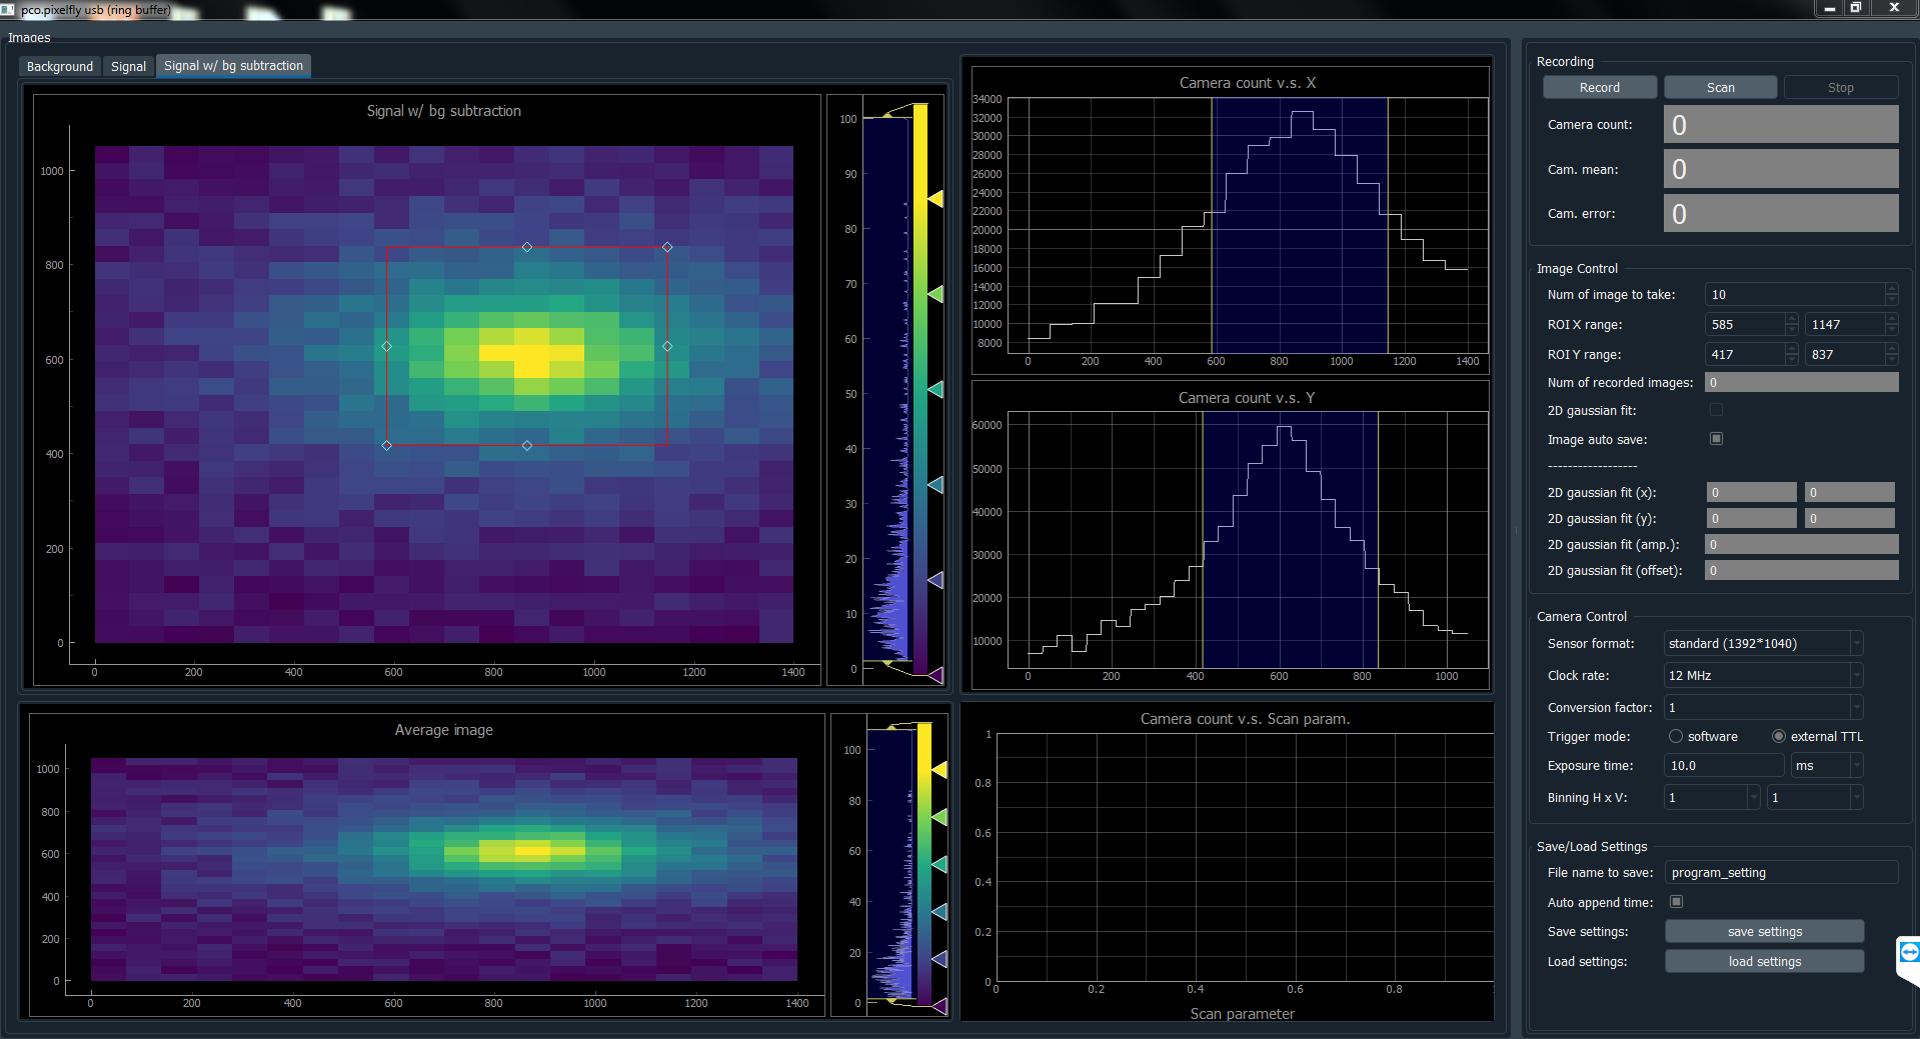
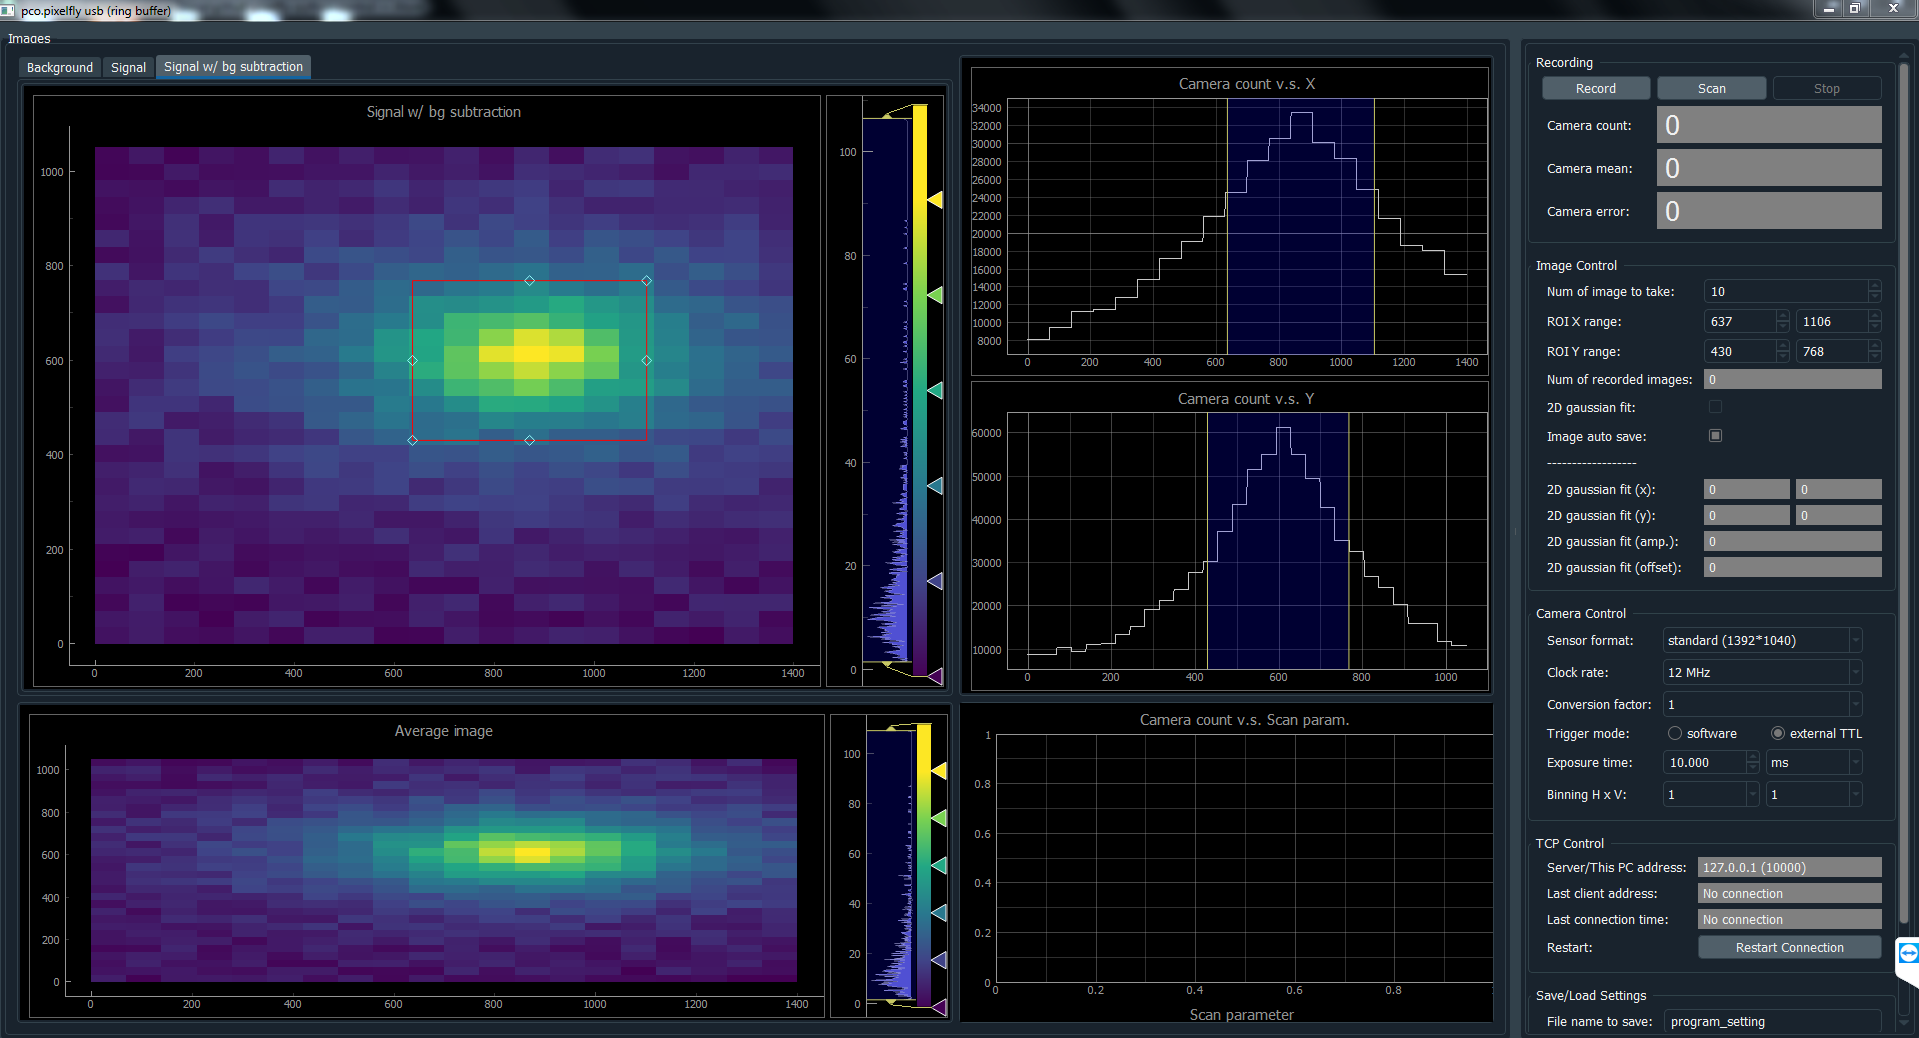
ReadMe includes TCP

diff --git a/README.md b/README.md
@@ -7,7 +7,8 @@ Key features include:
 - real time image display
 - region of interest (ROI) selection
 - real time image statistics (including 2D Gaussian fit)
-- target system parameter scan (in coordinate with other devices) 
+- target system parameter scan (in coordinate with other programs/devices)
+- socket network communication (as server)
 - save and load program settings
 
 
@@ -40,6 +41,10 @@ Default settings, legitimate choices and some camera specifications are listed i
   - Camera configurations can be set in this section. Only some common settings are implemented now.
   - A sanity check of exposure time setting is included at the backend.
   - Changing sensor format or binning can change image size, as well as the absolute limit of ROI.
+
+
+- TCP Control
+	- Other programs can send data to this program through network. For now the received data is interpreted as scan sequence.
 
 
 - Save/Load Settigns
